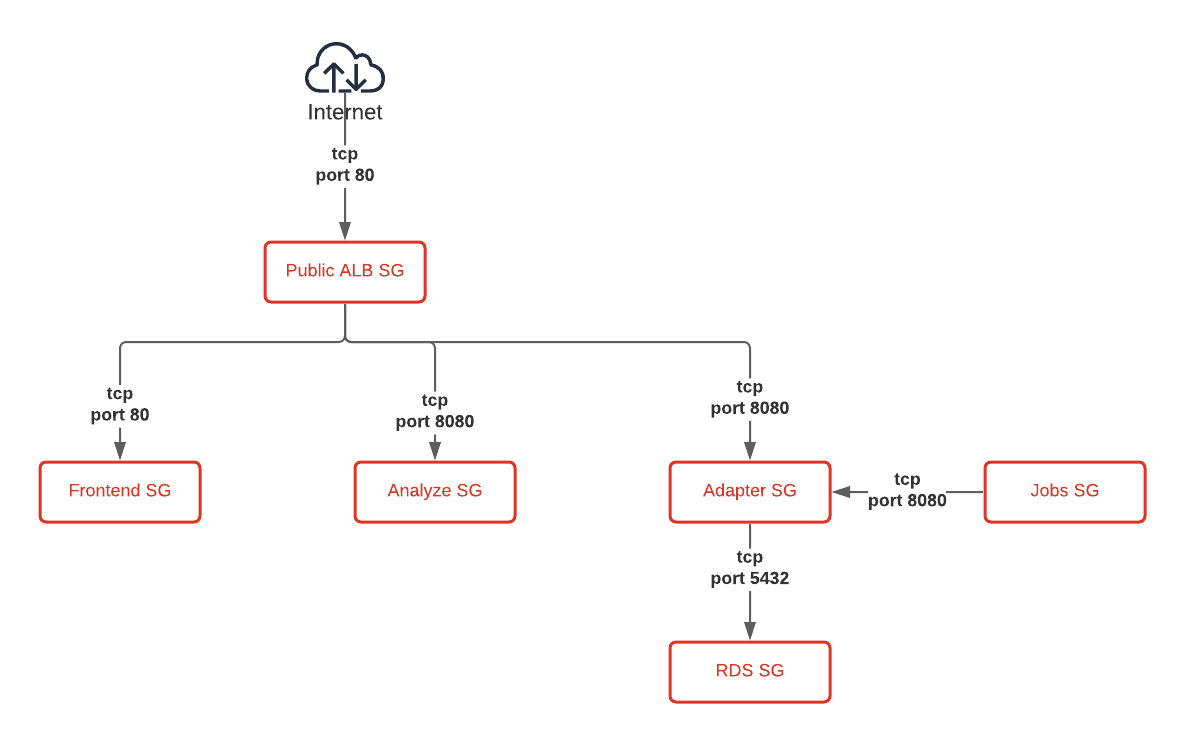
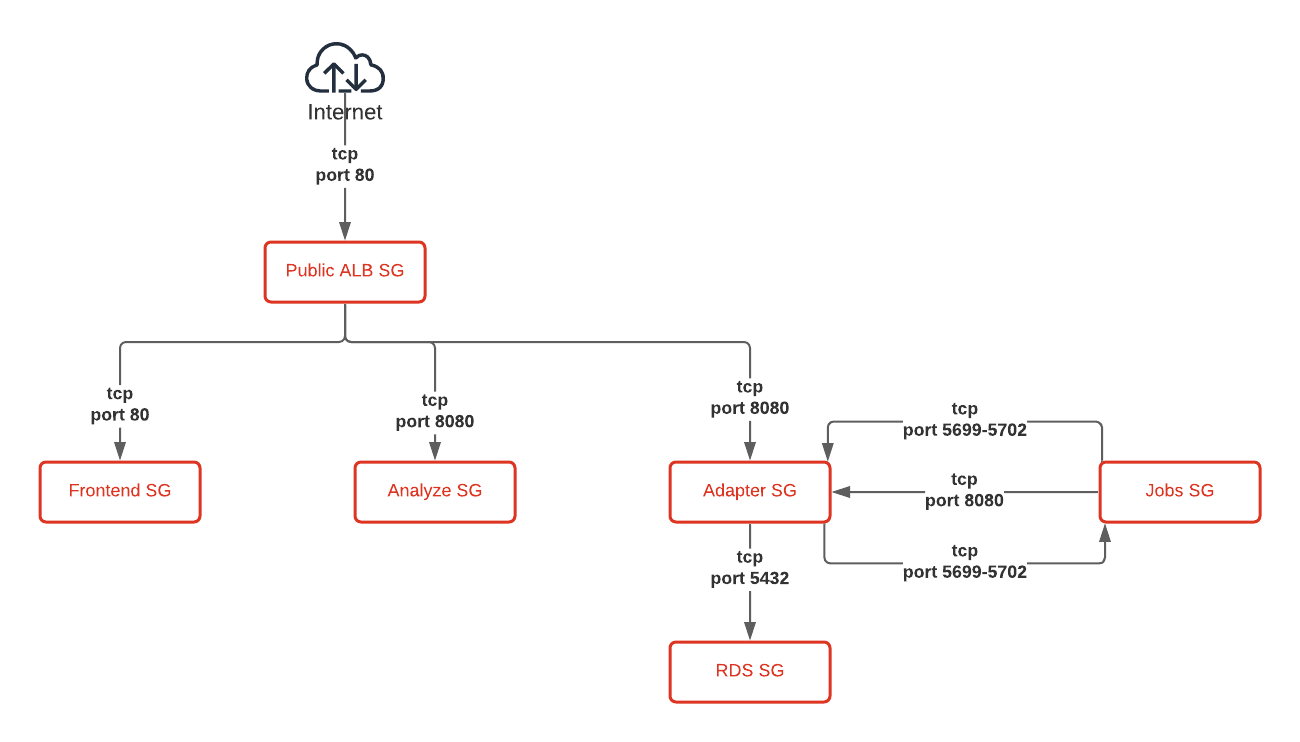
Update readme with hazelcast SG

diff --git a/README.md b/README.md
@@ -53,7 +53,7 @@ Traffic with an S3 bucket as destination will not be routed over the public inte
 ### Security Groups
 Security groups are in place to restrict network access to the different resources. The only one that allows direct access from the internet is the public Application Load Balancer (ALB), and this is restricted to TCP traffic on port 80 as we are currently running HTTP.
 
-The Frontend, Analyze and Adapter services allow TCP traffic coming from the public ALB to their respective ports, the Adapter service also allows TCP traffic coming directly from the Jobs service. The RDS database only allows TCP traffic on port 5432 (PostgreSQL) coming from the Adapter service.
+The Frontend, Analyze and Adapter services allow TCP traffic coming from the public ALB to their respective ports, the Adapter service also allows TCP traffic coming directly from the Jobs service. The RDS database only allows TCP traffic on port 5432 (PostgreSQL) coming from the Adapter service. To allow service discovery and communication with Hazelcast, ports 5699-5702 between Jobs and Adapter service are open both directions.
 
 ![alt text](documentation/security-groups.png)
 
